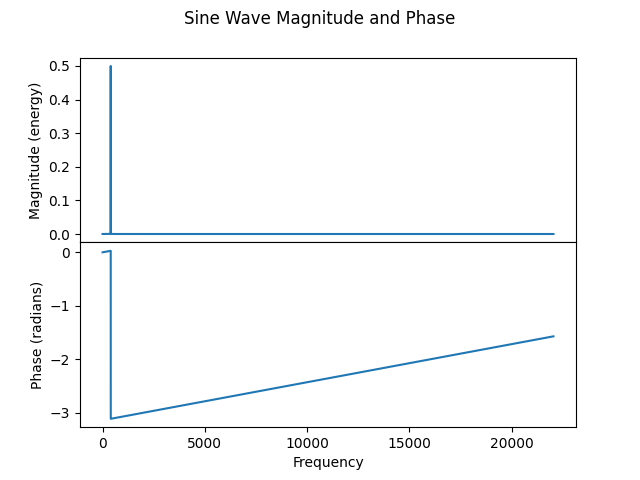
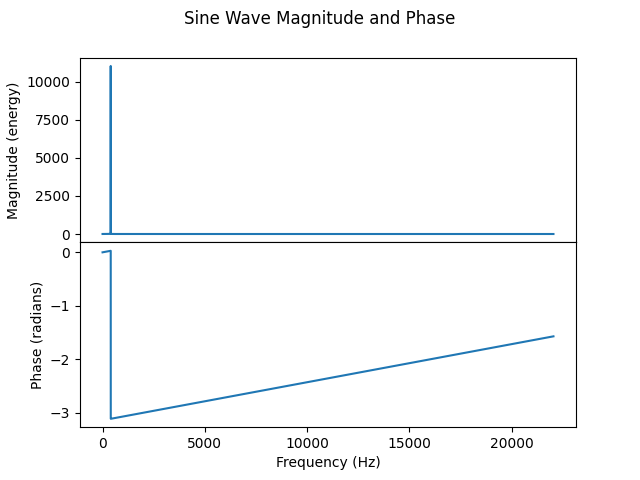
the time vector and frequency vector now get passed back from mySpecgram. A color bar has been added to the spectrogram. The x label for the fft/phase output has been updated.

Changed region(s): [[0.0, 0.125, 0.125, 0.4688], [0.4375, 0.9375, 0.5938, 1.0], [0.0625, 0.4688, 0.125, 0.5]]

diff --git a/assignment03/fourierAnalysis.py b/assignment03/fourierAnalysis.py
@@ -1,7 +1,6 @@
 import numpy as np
 from numpy.fft import fft
 import matplotlib.pyplot as plt
-from matplotlib import mlab
 
 
 results_dir = 'results/'
@@ -49,7 +48,7 @@ def generateSquare(amplitude, sampling_rate_Hz, frequency_Hz, length_secs, phase
 
 # Question 3: The FFT and its constituent parts are computed in this function.
 def computeSpectrum(x, sample_rate_Hz):
-    spectrum = fft(x) / x.shape[0]
+    spectrum = fft(x)  # / x.shape[0]
     samples = spectrum.shape[-1]
 
     pos_samples = int(samples/2)
@@ -97,15 +96,13 @@ def generateBlocks(x, sample_rate_Hz, block_size, hop_size):
 
 # Question 4.2 Generate a spectrogram
 def mySpecgram(x, block_size, hop_size, sampling_rate_Hz, window_type):
-    freq_vector = 0
-    time_vector = 0
-
     hop_size = int(hop_size)
 
     t, X = generateBlocks(x, sampling_rate_Hz, block_size, hop_size)
 
     hann_window = np.hanning(block_size)
     magnitude_spectrogram = np.zeros(shape=(int(np.ceil(block_size/2)), X.shape[0]))
+
     for i in range(X.shape[0]):
         if window_type == 'hann':
             f, XAbs, XPhase, XRe, XIm = computeSpectrum(X[i]*hann_window, sampling_rate_Hz)
@@ -113,11 +110,14 @@ def mySpecgram(x, block_size, hop_size, sampling_rate_Hz, window_type):
             f, XAbs, XPhase, XRe, XIm = computeSpectrum(X[i], sampling_rate_Hz)
         magnitude_spectrogram[:, i] = XAbs
 
-    magnitude_spectrogram = np.log10(magnitude_spectrogram)
-    # spectrum, freqs, time, im = plt.specgram(x, NFFT=block_size, Fs=sampling_rate_Hz, noverlap=hop_size)
+    freq_vector = f
+    time_vector = t
+
+    magnitude_spectrogram = 10*np.log10(magnitude_spectrogram)
 
     plt.imshow(magnitude_spectrogram, origin='lower', interpolation='nearest',
                aspect='auto', extent=[t[0], t[-1], f[0], f[-1]])
+    plt.colorbar()
 
     if window_type == 'hann':
         plt.title('Spectrogram with a Hanning Window')
@@ -203,7 +203,7 @@ if __name__ == '__main__':
     # Question 3: Fourier Transforms
     # Plot sine wave data
     title = 'Sine Wave Magnitude and Phase'
-    xlabel = 'Frequency'
+    xlabel = 'Frequency (Hz)'
     ylabels = ['Magnitude (energy)', 'Phase (radians)']
     save_file = results_dir + question3_file1
     f, XAbs, XPhase, XRe, XIm = computeSpectrum(x_sine, sampling_rate_Hz)
